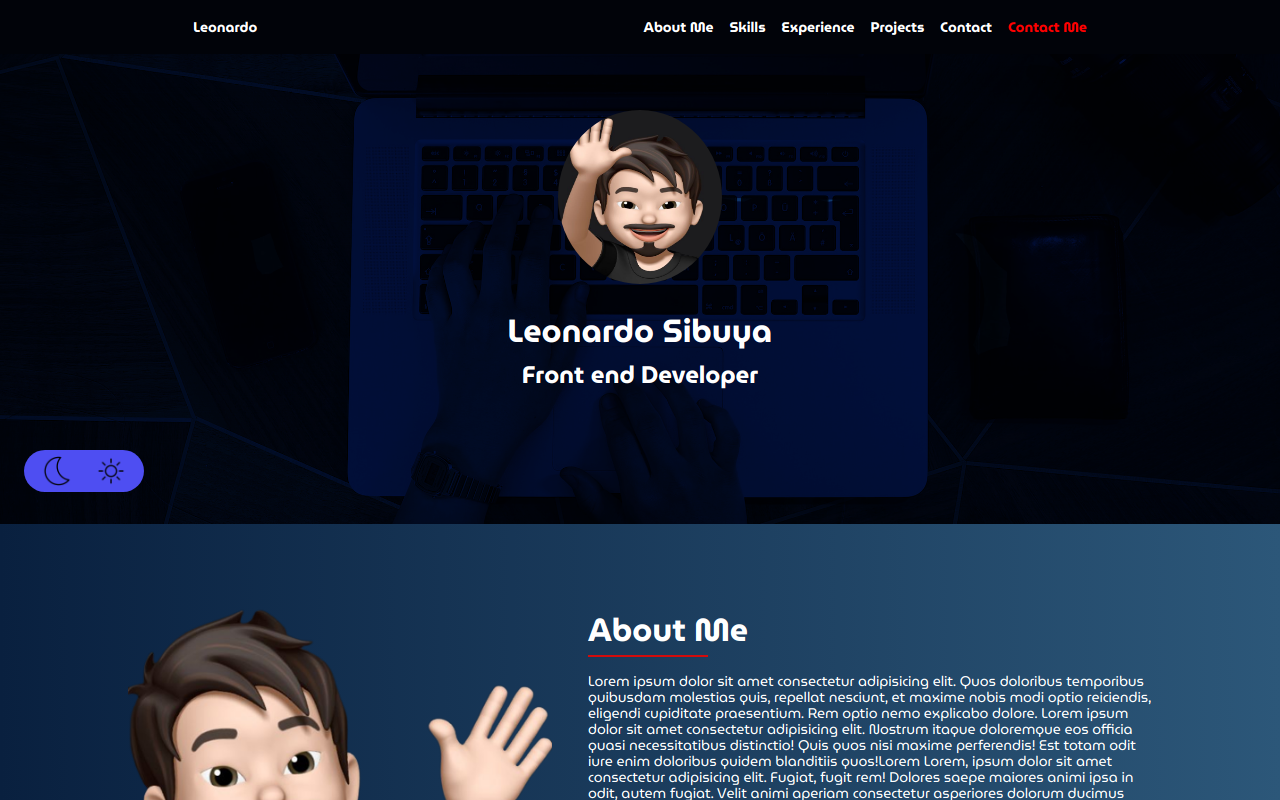
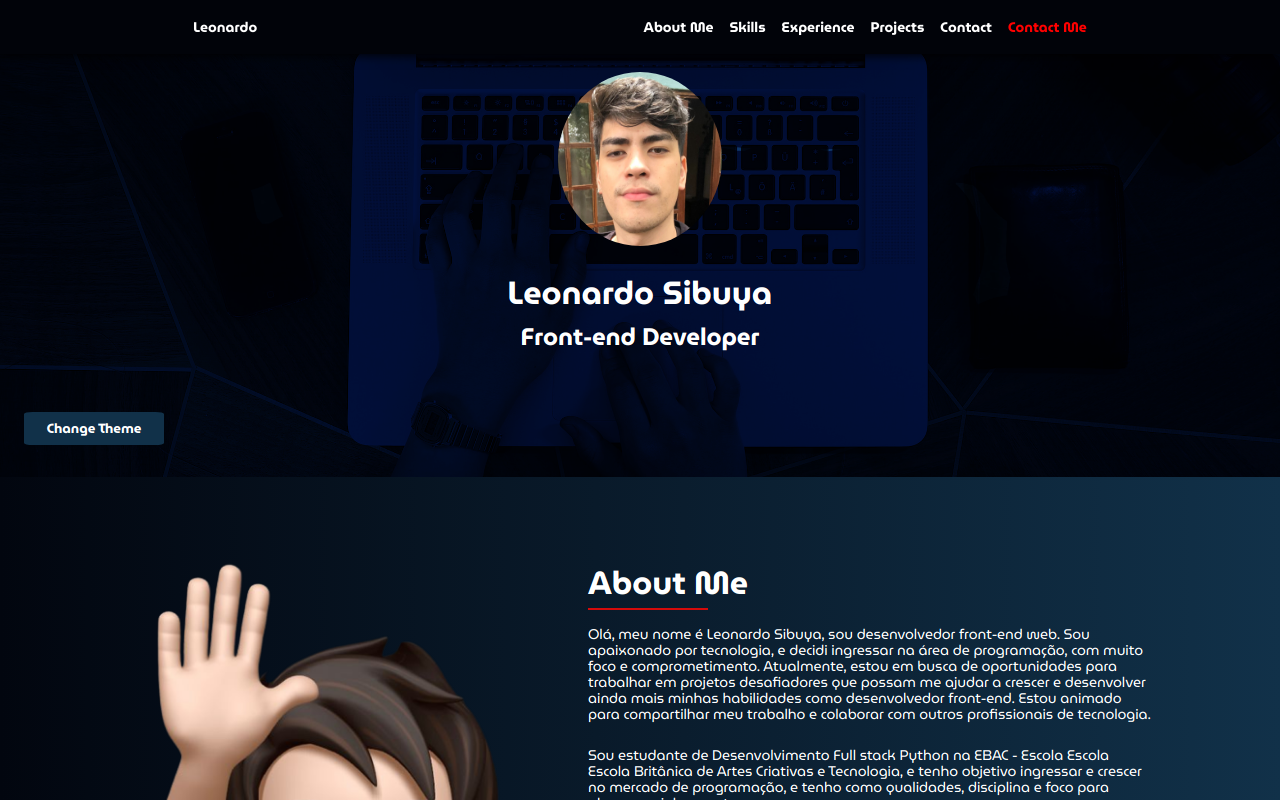
Finalização do projeto

diff --git a/src/containers/Nav/styles.ts b/src/containers/Nav/styles.ts
@@ -10,6 +10,12 @@ export const Lista = styled.ul`
   width: 100%;
   box-shadow: 0 0 10px 1px;
 
+  @media (max-width: 1024px) {
+    padding: 8px 0;
+    padding-left: 16px;
+    justify-content: left;
+  }
+
   @media (max-width: 768px) {
     padding: 8px 0;
     padding-left: 16px;
@@ -18,6 +24,17 @@ export const Lista = styled.ul`
 
   button {
     display: none;
+
+    @media (max-width: 1024px) {
+      display: block;
+      color: #fff;
+      background-color: transparent;
+      border: none;
+      border-radius: 6px;
+      padding: 2px 4px;
+      margin: 8px 0;
+      font-size: 24px;
+    }
 
     @media (max-width: 768px) {
       display: block;
@@ -38,6 +55,11 @@ export const Item = styled.li`
   padding: 0 8px;
   position: relative;
 
+  @media (max-width: 1024px) {
+    font-size: 14px;
+    padding: 6px 0;
+  }
+
   @media (max-width: 768px) {
     font-size: 12px;
     padding: 6px 0;
@@ -50,6 +72,10 @@ export const ItemNome = styled.li`
   font-size: 14px;
   padding: 0 8px;
   position: relative;
+
+  @media (max-width: 1024px) {
+    display: none;
+  }
 
   @media (max-width: 768px) {
     display: none;
@@ -109,6 +135,10 @@ export const LinkExterno = styled.a`
 export const ListaItensContent = styled.ul<{ isOpen: boolean }>`
   display: flex;
 
+  @media (max-width: 1024px) {
+    display: ${({ isOpen }) => (isOpen ? 'block' : 'none')};
+  }
+
   @media (max-width: 768px) {
     display: ${({ isOpen }) => (isOpen ? 'block' : 'none')};
   }
@@ -116,6 +146,10 @@ export const ListaItensContent = styled.ul<{ isOpen: boolean }>`
 
 export const ListaItens = styled.ul`
   display: flex;
+
+  @media (max-width: 1024px) {
+    display: block;
+  }
 
   @media (max-width: 768px) {
     display: block;

diff --git a/src/containers/About/styles.ts b/src/containers/About/styles.ts
@@ -13,6 +13,10 @@ export const ContainerAbout = styled.div`
   justify-content: center;
   align-items: start;
 
+  @media (max-width: 1024px) {
+    flex-direction: column;
+  }
+
   @media (max-width: 768px) {
     flex-direction: column;
   }
@@ -22,6 +26,13 @@ export const ImagePerfil = styled.img`
   max-width: 460px;
   width: 100%;
   padding-right: 36px;
+
+  @media (max-width: 1024px) {
+    max-width: 420px;
+    height: 400px;
+    margin: 0 auto;
+    margin-bottom: 24px;
+  }
 
   @media (max-width: 768px) {
     max-width: 340px;
@@ -61,6 +72,10 @@ export const ListSocial = styled.ul`
   padding-left: 16px;
   gap: 30px;
   margin-top: 36px;
+
+  @media (max-width: 1024px) {
+    justify-content: center;
+  }
 
   @media (max-width: 768px) {
     justify-content: center;

diff --git a/src/containers/About/index.tsx b/src/containers/About/index.tsx
@@ -38,9 +38,9 @@ const About = () => (
           <br />
           <Paragrafo>
             Sou estudante de Desenvolvimento Full stack Python na EBAC - Escola
-            Escola Escola Britânica de Artes Criativas e Tecnologia, e tenho
-            objetivo ingressar e crescer no mercado de programação, e tenho como
-            qualidades, disciplina e foco para alcançar minhas metas.
+            Britânica de Artes Criativas e Tecnologia, e tenho objetivo de
+            ingressar e crescer no mercado de programação, e tenho como
+            qualidades disciplina e foco para alcançar minhas metas.
           </Paragrafo>
           <br />
           <Paragrafo>

diff --git a/src/containers/Experience/styles.ts b/src/containers/Experience/styles.ts
@@ -14,6 +14,11 @@ export const Info = styled.div`
   align-items: start;
   justify-content: center;
 
+  @media (max-width: 1024px) {
+    flex-direction: column;
+    align-items: center;
+  }
+
   @media (max-width: 768px) {
     flex-direction: column;
     align-items: center;
@@ -23,6 +28,14 @@ export const Info = styled.div`
     max-width: 460px;
     border-radius: 8px;
     height: 480px;
+
+    @media (max-width: 1024px) {
+      max-width: 100%;
+      height: 340px;
+      margin: 0 auto;
+      margin-bottom: 16px;
+      display: block;
+    }
 
     @media (max-width: 768px) {
       max-width: 100%;

diff --git a/src/containers/Experience/index.tsx b/src/containers/Experience/index.tsx
@@ -28,7 +28,7 @@ const Experience = () => (
           <br />
           <Paragrafo>
             O objetivo do projeto foi desenvolver um layout atraente e
-            profissional, e dar mais a credibilidade para pousada, aumentando a
+            profissional, e dar mais credibilidade para pousada, aumentando a
             taxa de reservas.
           </Paragrafo>
           <br />

diff --git a/src/containers/Projetos/styles.ts b/src/containers/Projetos/styles.ts
@@ -16,6 +16,11 @@ export const ListProjects = styled.ul`
   max-width: 1024px;
   width: 100%;
 
+  @media (max-width: 1024px) {
+    display: grid;
+    grid-template-columns: 1fr;
+  }
+
   @media (max-width: 768px) {
     display: grid;
     grid-template-columns: 1fr;

diff --git a/src/containers/Skills/styles.ts b/src/containers/Skills/styles.ts
@@ -14,6 +14,10 @@ export const TecItens = styled.ul`
   gap: 16px;
   padding-bottom: 38px;
 
+  @media (max-width: 1024px) {
+    grid-template-columns: 1fr 1fr 1fr;
+  }
+
   @media (max-width: 768px) {
     display: flex;
     flex-direction: column;

diff --git a/src/components/Avatar/styles.ts b/src/components/Avatar/styles.ts
@@ -7,6 +7,11 @@ export const FotoPerfil = styled.img`
   margin-top: 16px;
   margin-bottom: 14px;
 
+  @media (max-width: 1024px) {
+    width: 150px;
+    height: 164px;
+  }
+
   @media (max-width: 768px) {
     width: 130px;
     height: 140px;

diff --git a/src/components/Title/styles.ts b/src/components/Title/styles.ts
@@ -5,6 +5,10 @@ export const Title = styled.h2`
   color: ${(props) => props.theme.corLetra};
   font-weight: bold;
 
+  @media (max-width: 1024px) {
+    font-size: 28px;
+  }
+
   @media (max-width: 768px) {
     font-size: 24px;
   }

diff --git a/src/components/Subtitle/styles.ts b/src/components/Subtitle/styles.ts
@@ -6,6 +6,10 @@ export const Subtitle = styled.h3`
   font-weight: bold;
   margin-bottom: 12px;
 
+  @media (max-width: 1024px) {
+    font-size: 20px;
+  }
+
   @media (max-width: 768px) {
     font-size: 16px;
   }

diff --git a/src/components/Line/styles.ts b/src/components/Line/styles.ts
@@ -6,6 +6,10 @@ export const Linha = styled.div`
   border: 1px solid #d40b0b;
   margin-bottom: 16px;
 
+  @media (max-width: 1024px) {
+    width: 100px;
+  }
+
   @media (max-width: 768px) {
     width: 80px;
   }

diff --git a/src/components/Paragrafo/styles.ts b/src/components/Paragrafo/styles.ts
@@ -6,6 +6,10 @@ export const P = styled.p`
   line-height: 16px;
   font-weight: normal;
 
+  @media (max-width: 1024px) {
+    font-size: 13px;
+  }
+
   @media (max-width: 768px) {
     font-size: 12px;
   }
